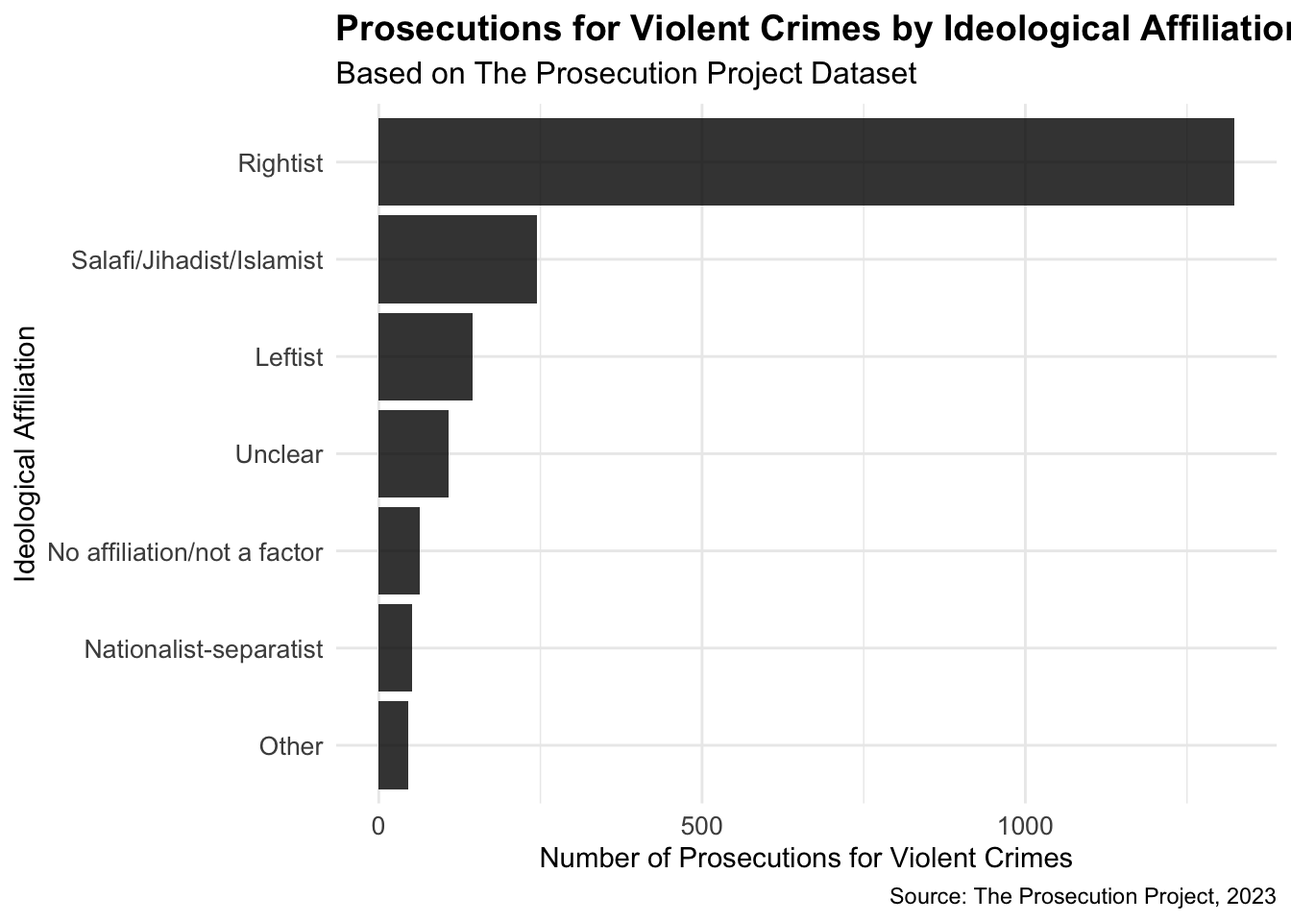
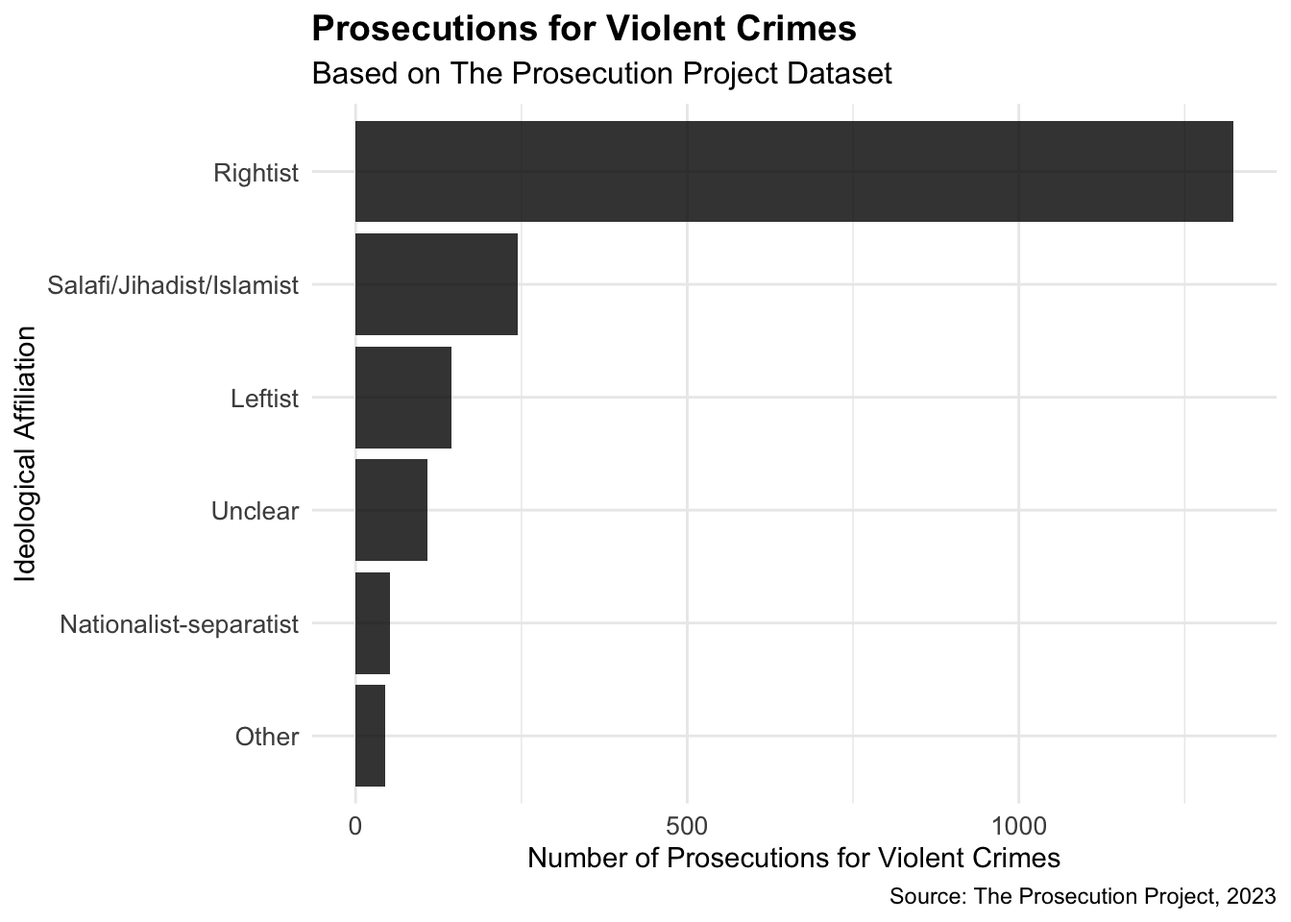
Properly parse dates, add death counts analysis and improve data filtering/visualization

diff --git a/violence.html b/violence.html
@@ -164,7 +164,14 @@ pre > code.sourceCode > span > a:first-child::before { text-decoration: underlin
 <span id="cb5-20"><a href="#cb5-20" aria-hidden="true" tabindex="-1"></a>        criminal_method <span class="sc">%in%</span> violent,</span>
 <span id="cb5-21"><a href="#cb5-21" aria-hidden="true" tabindex="-1"></a>        <span class="st">"violent"</span>,</span>
 <span id="cb5-22"><a href="#cb5-22" aria-hidden="true" tabindex="-1"></a>        <span class="st">"non-violent"</span></span>
-<span id="cb5-23"><a href="#cb5-23" aria-hidden="true" tabindex="-1"></a>    ))</span></code><button title="Copy to Clipboard" class="code-copy-button"><i class="bi"></i></button></pre></div>
+<span id="cb5-23"><a href="#cb5-23" aria-hidden="true" tabindex="-1"></a>    ))</span>
+<span id="cb5-24"><a href="#cb5-24" aria-hidden="true" tabindex="-1"></a></span>
+<span id="cb5-25"><a href="#cb5-25" aria-hidden="true" tabindex="-1"></a><span class="co"># parse dates</span></span>
+<span id="cb5-26"><a href="#cb5-26" aria-hidden="true" tabindex="-1"></a>df <span class="ot">&lt;-</span> df <span class="sc">|&gt;</span> </span>
+<span id="cb5-27"><a href="#cb5-27" aria-hidden="true" tabindex="-1"></a>    <span class="fu">mutate</span>(</span>
+<span id="cb5-28"><a href="#cb5-28" aria-hidden="true" tabindex="-1"></a>        <span class="at">date =</span> <span class="fu">str_trim</span>(date),</span>
+<span id="cb5-29"><a href="#cb5-29" aria-hidden="true" tabindex="-1"></a>        <span class="at">date =</span> lubridate<span class="sc">::</span><span class="fu">mdy</span>(date)</span>
+<span id="cb5-30"><a href="#cb5-30" aria-hidden="true" tabindex="-1"></a>    )</span></code><button title="Copy to Clipboard" class="code-copy-button"><i class="bi"></i></button></pre></div>
 </details>
 </div>
 </section>
@@ -209,24 +216,25 @@ pre > code.sourceCode > span > a:first-child::before { text-decoration: underlin
 <span id="cb8-7"><a href="#cb8-7" aria-hidden="true" tabindex="-1"></a>        )</span>
 <span id="cb8-8"><a href="#cb8-8" aria-hidden="true" tabindex="-1"></a>    )</span>
 <span id="cb8-9"><a href="#cb8-9" aria-hidden="true" tabindex="-1"></a></span>
-<span id="cb8-10"><a href="#cb8-10" aria-hidden="true" tabindex="-1"></a>df <span class="sc">|&gt;</span> <span class="fu">count</span>(ideology_simple)</span></code><button title="Copy to Clipboard" class="code-copy-button"><i class="bi"></i></button></pre></div>
+<span id="cb8-10"><a href="#cb8-10" aria-hidden="true" tabindex="-1"></a>df <span class="sc">|&gt;</span> <span class="fu">count</span>(ideology_simple, <span class="at">sort =</span> <span class="cn">TRUE</span>)</span></code><button title="Copy to Clipboard" class="code-copy-button"><i class="bi"></i></button></pre></div>
 </details>
 <div class="cell-output cell-output-stdout">
 <pre><code># A tibble: 7 × 2
   ideology_simple                 n
   &lt;chr&gt;                       &lt;int&gt;
-1 Leftist                       802
-2 Nationalist-separatist        114
-3 No affiliation/not a factor   163
-4 Other                          60
-5 Rightist                     2604
-6 Salafi/Jihadist/Islamist      956
-7 Unclear                       221</code></pre>
+1 Rightist                     2604
+2 Salafi/Jihadist/Islamist      956
+3 Leftist                       802
+4 Unclear                       221
+5 No affiliation/not a factor   163
+6 Nationalist-separatist        114
+7 Other                          60</code></pre>
 </div>
 </div>
 </section>
 <section id="how-many-prosecutions-were-for-violent-vs.-non-violent-methods-by-ideological-affiliation" class="level3">
 <h3 class="anchored" data-anchor-id="how-many-prosecutions-were-for-violent-vs.-non-violent-methods-by-ideological-affiliation">How many prosecutions were for violent vs.&nbsp;non-violent methods, by ideological affiliation?</h3>
+<p>Then let’s filter for only those to make our visualizations</p>
 <div class="cell">
 <details class="code-fold">
 <summary>Code</summary>
@@ -258,29 +266,34 @@ pre > code.sourceCode > span > a:first-child::before { text-decoration: underlin
 <div class="cell">
 <details class="code-fold">
 <summary>Code</summary>
-<div class="sourceCode cell-code" id="cb12"><pre class="sourceCode r code-with-copy"><code class="sourceCode r"><span id="cb12-1"><a href="#cb12-1" aria-hidden="true" tabindex="-1"></a>violent_crimes_by_ideology <span class="ot">&lt;-</span> df <span class="sc">|&gt;</span> </span>
-<span id="cb12-2"><a href="#cb12-2" aria-hidden="true" tabindex="-1"></a>    <span class="fu">filter</span>(method_type <span class="sc">==</span> <span class="st">"violent"</span>) <span class="sc">|&gt;</span> </span>
-<span id="cb12-3"><a href="#cb12-3" aria-hidden="true" tabindex="-1"></a>    <span class="fu">count</span>(ideology_simple, <span class="at">name =</span> <span class="st">"violent_prosecutions"</span>) <span class="sc">|&gt;</span> </span>
-<span id="cb12-4"><a href="#cb12-4" aria-hidden="true" tabindex="-1"></a>    <span class="fu">arrange</span>(<span class="fu">desc</span>(violent_prosecutions))</span>
-<span id="cb12-5"><a href="#cb12-5" aria-hidden="true" tabindex="-1"></a></span>
-<span id="cb12-6"><a href="#cb12-6" aria-hidden="true" tabindex="-1"></a><span class="fu">ggplot</span>(violent_crimes_by_ideology, <span class="fu">aes</span>(<span class="at">x =</span> <span class="fu">reorder</span>(ideology_simple, violent_prosecutions), </span>
-<span id="cb12-7"><a href="#cb12-7" aria-hidden="true" tabindex="-1"></a>                                       <span class="at">y =</span> violent_prosecutions)) <span class="sc">+</span></span>
-<span id="cb12-8"><a href="#cb12-8" aria-hidden="true" tabindex="-1"></a>    <span class="fu">geom_col</span>(<span class="at">fill =</span> <span class="st">"black"</span>, <span class="at">alpha =</span> <span class="fl">0.8</span>) <span class="sc">+</span></span>
-<span id="cb12-9"><a href="#cb12-9" aria-hidden="true" tabindex="-1"></a>    <span class="fu">coord_flip</span>() <span class="sc">+</span></span>
-<span id="cb12-10"><a href="#cb12-10" aria-hidden="true" tabindex="-1"></a>    <span class="fu">labs</span>(</span>
-<span id="cb12-11"><a href="#cb12-11" aria-hidden="true" tabindex="-1"></a>        <span class="at">title =</span> <span class="st">"Prosecutions for Violent Crimes by Ideological Affiliation"</span>,</span>
-<span id="cb12-12"><a href="#cb12-12" aria-hidden="true" tabindex="-1"></a>        <span class="at">subtitle =</span> <span class="st">"Based on The Prosecution Project Dataset"</span>,</span>
-<span id="cb12-13"><a href="#cb12-13" aria-hidden="true" tabindex="-1"></a>        <span class="at">x =</span> <span class="st">"Ideological Affiliation"</span>,</span>
-<span id="cb12-14"><a href="#cb12-14" aria-hidden="true" tabindex="-1"></a>        <span class="at">y =</span> <span class="st">"Number of Prosecutions for Violent Crimes"</span>,</span>
-<span id="cb12-15"><a href="#cb12-15" aria-hidden="true" tabindex="-1"></a>        <span class="at">caption =</span> <span class="st">"Source: The Prosecution Project, 2023"</span></span>
-<span id="cb12-16"><a href="#cb12-16" aria-hidden="true" tabindex="-1"></a>    ) <span class="sc">+</span></span>
-<span id="cb12-17"><a href="#cb12-17" aria-hidden="true" tabindex="-1"></a>    <span class="fu">theme_minimal</span>() <span class="sc">+</span></span>
-<span id="cb12-18"><a href="#cb12-18" aria-hidden="true" tabindex="-1"></a>    <span class="fu">theme</span>(</span>
-<span id="cb12-19"><a href="#cb12-19" aria-hidden="true" tabindex="-1"></a>        <span class="at">plot.title =</span> <span class="fu">element_text</span>(<span class="at">size =</span> <span class="dv">14</span>, <span class="at">face =</span> <span class="st">"bold"</span>),</span>
-<span id="cb12-20"><a href="#cb12-20" aria-hidden="true" tabindex="-1"></a>        <span class="at">plot.subtitle =</span> <span class="fu">element_text</span>(<span class="at">size =</span> <span class="dv">12</span>),</span>
-<span id="cb12-21"><a href="#cb12-21" aria-hidden="true" tabindex="-1"></a>        <span class="at">axis.text =</span> <span class="fu">element_text</span>(<span class="at">size =</span> <span class="dv">10</span>),</span>
-<span id="cb12-22"><a href="#cb12-22" aria-hidden="true" tabindex="-1"></a>        <span class="at">axis.title =</span> <span class="fu">element_text</span>(<span class="at">size =</span> <span class="dv">11</span>)</span>
-<span id="cb12-23"><a href="#cb12-23" aria-hidden="true" tabindex="-1"></a>    )</span></code><button title="Copy to Clipboard" class="code-copy-button"><i class="bi"></i></button></pre></div>
+<div class="sourceCode cell-code" id="cb12"><pre class="sourceCode r code-with-copy"><code class="sourceCode r"><span id="cb12-1"><a href="#cb12-1" aria-hidden="true" tabindex="-1"></a>violent_crimes <span class="ot">&lt;-</span> df <span class="sc">|&gt;</span> </span>
+<span id="cb12-2"><a href="#cb12-2" aria-hidden="true" tabindex="-1"></a>    <span class="fu">filter</span>(</span>
+<span id="cb12-3"><a href="#cb12-3" aria-hidden="true" tabindex="-1"></a>        method_type <span class="sc">==</span> <span class="st">"violent"</span>,</span>
+<span id="cb12-4"><a href="#cb12-4" aria-hidden="true" tabindex="-1"></a>        ideology_simple <span class="sc">!=</span> <span class="st">"No affiliation/not a factor"</span></span>
+<span id="cb12-5"><a href="#cb12-5" aria-hidden="true" tabindex="-1"></a>        )</span>
+<span id="cb12-6"><a href="#cb12-6" aria-hidden="true" tabindex="-1"></a>    </span>
+<span id="cb12-7"><a href="#cb12-7" aria-hidden="true" tabindex="-1"></a>violent_crimes_by_ideology <span class="ot">&lt;-</span> violent_crimes <span class="sc">|&gt;</span> </span>
+<span id="cb12-8"><a href="#cb12-8" aria-hidden="true" tabindex="-1"></a>    <span class="fu">count</span>(ideology_simple, <span class="at">name =</span> <span class="st">"violent_prosecutions"</span>) <span class="sc">|&gt;</span> </span>
+<span id="cb12-9"><a href="#cb12-9" aria-hidden="true" tabindex="-1"></a>    <span class="fu">arrange</span>(<span class="fu">desc</span>(violent_prosecutions))</span>
+<span id="cb12-10"><a href="#cb12-10" aria-hidden="true" tabindex="-1"></a></span>
+<span id="cb12-11"><a href="#cb12-11" aria-hidden="true" tabindex="-1"></a><span class="fu">ggplot</span>(violent_crimes_by_ideology, <span class="fu">aes</span>(<span class="at">x =</span> <span class="fu">reorder</span>(ideology_simple, violent_prosecutions), </span>
+<span id="cb12-12"><a href="#cb12-12" aria-hidden="true" tabindex="-1"></a>                                       <span class="at">y =</span> violent_prosecutions)) <span class="sc">+</span></span>
+<span id="cb12-13"><a href="#cb12-13" aria-hidden="true" tabindex="-1"></a>    <span class="fu">geom_col</span>(<span class="at">fill =</span> <span class="st">"black"</span>, <span class="at">alpha =</span> <span class="fl">0.8</span>) <span class="sc">+</span></span>
+<span id="cb12-14"><a href="#cb12-14" aria-hidden="true" tabindex="-1"></a>    <span class="fu">coord_flip</span>() <span class="sc">+</span></span>
+<span id="cb12-15"><a href="#cb12-15" aria-hidden="true" tabindex="-1"></a>    <span class="fu">labs</span>(</span>
+<span id="cb12-16"><a href="#cb12-16" aria-hidden="true" tabindex="-1"></a>        <span class="at">title =</span> <span class="st">"Prosecutions for Violent Crimes"</span>,</span>
+<span id="cb12-17"><a href="#cb12-17" aria-hidden="true" tabindex="-1"></a>        <span class="at">subtitle =</span> <span class="st">"Based on The Prosecution Project Dataset"</span>,</span>
+<span id="cb12-18"><a href="#cb12-18" aria-hidden="true" tabindex="-1"></a>        <span class="at">x =</span> <span class="st">"Ideological Affiliation"</span>,</span>
+<span id="cb12-19"><a href="#cb12-19" aria-hidden="true" tabindex="-1"></a>        <span class="at">y =</span> <span class="st">"Number of Prosecutions for Violent Crimes"</span>,</span>
+<span id="cb12-20"><a href="#cb12-20" aria-hidden="true" tabindex="-1"></a>        <span class="at">caption =</span> <span class="st">"Source: The Prosecution Project, 2023"</span></span>
+<span id="cb12-21"><a href="#cb12-21" aria-hidden="true" tabindex="-1"></a>    ) <span class="sc">+</span></span>
+<span id="cb12-22"><a href="#cb12-22" aria-hidden="true" tabindex="-1"></a>    <span class="fu">theme_minimal</span>() <span class="sc">+</span></span>
+<span id="cb12-23"><a href="#cb12-23" aria-hidden="true" tabindex="-1"></a>    <span class="fu">theme</span>(</span>
+<span id="cb12-24"><a href="#cb12-24" aria-hidden="true" tabindex="-1"></a>        <span class="at">plot.title =</span> <span class="fu">element_text</span>(<span class="at">size =</span> <span class="dv">14</span>, <span class="at">face =</span> <span class="st">"bold"</span>),</span>
+<span id="cb12-25"><a href="#cb12-25" aria-hidden="true" tabindex="-1"></a>        <span class="at">plot.subtitle =</span> <span class="fu">element_text</span>(<span class="at">size =</span> <span class="dv">12</span>),</span>
+<span id="cb12-26"><a href="#cb12-26" aria-hidden="true" tabindex="-1"></a>        <span class="at">axis.text =</span> <span class="fu">element_text</span>(<span class="at">size =</span> <span class="dv">10</span>),</span>
+<span id="cb12-27"><a href="#cb12-27" aria-hidden="true" tabindex="-1"></a>        <span class="at">axis.title =</span> <span class="fu">element_text</span>(<span class="at">size =</span> <span class="dv">11</span>)</span>
+<span id="cb12-28"><a href="#cb12-28" aria-hidden="true" tabindex="-1"></a>    )</span></code><button title="Copy to Clipboard" class="code-copy-button"><i class="bi"></i></button></pre></div>
 </details>
 <div class="cell-output-display">
 <div>
@@ -296,57 +309,123 @@ pre > code.sourceCode > span > a:first-child::before { text-decoration: underlin
 <div class="cell page-columns page-full">
 <details class="code-fold">
 <summary>Code</summary>
-<div class="sourceCode cell-code" id="cb13"><pre class="sourceCode r code-with-copy"><code class="sourceCode r"><span id="cb13-1"><a href="#cb13-1" aria-hidden="true" tabindex="-1"></a><span class="co"># Extract year from the date column and create the data for the stacked bar chart</span></span>
-<span id="cb13-2"><a href="#cb13-2" aria-hidden="true" tabindex="-1"></a>df_yearly <span class="ot">&lt;-</span> df <span class="sc">|&gt;</span></span>
-<span id="cb13-3"><a href="#cb13-3" aria-hidden="true" tabindex="-1"></a>    <span class="co"># Extract year from date (handling different date formats)</span></span>
-<span id="cb13-4"><a href="#cb13-4" aria-hidden="true" tabindex="-1"></a>    <span class="fu">mutate</span>(<span class="at">year =</span> <span class="fu">case_when</span>(</span>
-<span id="cb13-5"><a href="#cb13-5" aria-hidden="true" tabindex="-1"></a>        <span class="fu">str_detect</span>(date, <span class="st">"/"</span>) <span class="sc">~</span> <span class="fu">as.numeric</span>(<span class="fu">str_extract</span>(date, <span class="st">"</span><span class="sc">\\</span><span class="st">d{4}$"</span>)),</span>
-<span id="cb13-6"><a href="#cb13-6" aria-hidden="true" tabindex="-1"></a>        <span class="fu">str_detect</span>(date, <span class="st">"-"</span>) <span class="sc">~</span> <span class="fu">as.numeric</span>(<span class="fu">str_extract</span>(date, <span class="st">"^</span><span class="sc">\\</span><span class="st">d{4}"</span>))</span>
-<span id="cb13-7"><a href="#cb13-7" aria-hidden="true" tabindex="-1"></a>    )) <span class="sc">|&gt;</span></span>
-<span id="cb13-8"><a href="#cb13-8" aria-hidden="true" tabindex="-1"></a>    <span class="co"># Filter out any rows where year extraction failed</span></span>
-<span id="cb13-9"><a href="#cb13-9" aria-hidden="true" tabindex="-1"></a>    <span class="fu">filter</span>(<span class="sc">!</span><span class="fu">is.na</span>(year)) <span class="sc">|&gt;</span></span>
-<span id="cb13-10"><a href="#cb13-10" aria-hidden="true" tabindex="-1"></a>    <span class="co"># Count prosecutions by year and ideology</span></span>
-<span id="cb13-11"><a href="#cb13-11" aria-hidden="true" tabindex="-1"></a>    <span class="fu">count</span>(year, ideology_simple, <span class="at">name =</span> <span class="st">"prosecutions"</span>)</span>
-<span id="cb13-12"><a href="#cb13-12" aria-hidden="true" tabindex="-1"></a></span>
-<span id="cb13-13"><a href="#cb13-13" aria-hidden="true" tabindex="-1"></a><span class="co"># Create a custom color palette that clearly distinguishes ideologies</span></span>
-<span id="cb13-14"><a href="#cb13-14" aria-hidden="true" tabindex="-1"></a><span class="co"># Use a manual color scale with intuitive colors</span></span>
-<span id="cb13-15"><a href="#cb13-15" aria-hidden="true" tabindex="-1"></a><span class="fu">ggplot</span>(df_yearly, <span class="fu">aes</span>(<span class="at">x =</span> year, <span class="at">y =</span> prosecutions, <span class="at">fill =</span> ideology_simple)) <span class="sc">+</span></span>
-<span id="cb13-16"><a href="#cb13-16" aria-hidden="true" tabindex="-1"></a>    <span class="fu">geom_col</span>() <span class="sc">+</span></span>
-<span id="cb13-17"><a href="#cb13-17" aria-hidden="true" tabindex="-1"></a>    <span class="fu">scale_fill_manual</span>(<span class="at">values =</span> <span class="fu">c</span>(</span>
-<span id="cb13-18"><a href="#cb13-18" aria-hidden="true" tabindex="-1"></a>        <span class="st">"Rightist"</span> <span class="ot">=</span> <span class="st">"#c14a58ff"</span>,                    <span class="co"># Red for Rightist</span></span>
-<span id="cb13-19"><a href="#cb13-19" aria-hidden="true" tabindex="-1"></a>        <span class="st">"Leftist"</span> <span class="ot">=</span> <span class="st">"#337fb5ff"</span>,                     <span class="co"># Blue for Leftist  </span></span>
-<span id="cb13-20"><a href="#cb13-20" aria-hidden="true" tabindex="-1"></a>        <span class="st">"Salafi/Jihadist/Islamist"</span> <span class="ot">=</span> <span class="st">"#e08738ff"</span>,    <span class="co"># Orange</span></span>
-<span id="cb13-21"><a href="#cb13-21" aria-hidden="true" tabindex="-1"></a>        <span class="st">"Unclear"</span> <span class="ot">=</span> <span class="st">"#71a771ff"</span>,                     <span class="co"># Green</span></span>
-<span id="cb13-22"><a href="#cb13-22" aria-hidden="true" tabindex="-1"></a>        <span class="st">"No affiliation/not a factor"</span> <span class="ot">=</span> <span class="st">"#999999ff"</span>, <span class="co"># Purple</span></span>
-<span id="cb13-23"><a href="#cb13-23" aria-hidden="true" tabindex="-1"></a>        <span class="st">"Nationalist-separatist"</span> <span class="ot">=</span> <span class="st">"#8c564b"</span>,      <span class="co"># Brown</span></span>
-<span id="cb13-24"><a href="#cb13-24" aria-hidden="true" tabindex="-1"></a>        <span class="st">"Other"</span> <span class="ot">=</span> <span class="st">"#e377c2"</span>                        <span class="co"># Pink</span></span>
-<span id="cb13-25"><a href="#cb13-25" aria-hidden="true" tabindex="-1"></a>    )) <span class="sc">+</span></span>
-<span id="cb13-26"><a href="#cb13-26" aria-hidden="true" tabindex="-1"></a>    <span class="fu">labs</span>(</span>
-<span id="cb13-27"><a href="#cb13-27" aria-hidden="true" tabindex="-1"></a>        <span class="at">title =</span> <span class="st">"Total Prosecutions by Year, Colored by Ideological Affiliation"</span>,</span>
-<span id="cb13-28"><a href="#cb13-28" aria-hidden="true" tabindex="-1"></a>        <span class="at">subtitle =</span> <span class="st">"Based on The Prosecution Project Dataset"</span>,</span>
-<span id="cb13-29"><a href="#cb13-29" aria-hidden="true" tabindex="-1"></a>        <span class="at">x =</span> <span class="st">"Year"</span>,</span>
-<span id="cb13-30"><a href="#cb13-30" aria-hidden="true" tabindex="-1"></a>        <span class="at">y =</span> <span class="st">"Number of Prosecutions"</span>,</span>
-<span id="cb13-31"><a href="#cb13-31" aria-hidden="true" tabindex="-1"></a>        <span class="at">fill =</span> <span class="st">"Ideological Affiliation"</span>,</span>
-<span id="cb13-32"><a href="#cb13-32" aria-hidden="true" tabindex="-1"></a>        <span class="at">caption =</span> <span class="st">"Source: The Prosecution Project, 2023"</span></span>
-<span id="cb13-33"><a href="#cb13-33" aria-hidden="true" tabindex="-1"></a>    ) <span class="sc">+</span></span>
-<span id="cb13-34"><a href="#cb13-34" aria-hidden="true" tabindex="-1"></a>    <span class="fu">theme_minimal</span>() <span class="sc">+</span></span>
-<span id="cb13-35"><a href="#cb13-35" aria-hidden="true" tabindex="-1"></a>    <span class="fu">theme</span>(</span>
-<span id="cb13-36"><a href="#cb13-36" aria-hidden="true" tabindex="-1"></a>        <span class="at">plot.title =</span> <span class="fu">element_text</span>(<span class="at">size =</span> <span class="dv">14</span>, <span class="at">face =</span> <span class="st">"bold"</span>),</span>
-<span id="cb13-37"><a href="#cb13-37" aria-hidden="true" tabindex="-1"></a>        <span class="at">plot.subtitle =</span> <span class="fu">element_text</span>(<span class="at">size =</span> <span class="dv">12</span>),</span>
-<span id="cb13-38"><a href="#cb13-38" aria-hidden="true" tabindex="-1"></a>        <span class="at">axis.text =</span> <span class="fu">element_text</span>(<span class="at">size =</span> <span class="dv">10</span>),</span>
-<span id="cb13-39"><a href="#cb13-39" aria-hidden="true" tabindex="-1"></a>        <span class="at">axis.title =</span> <span class="fu">element_text</span>(<span class="at">size =</span> <span class="dv">11</span>),</span>
-<span id="cb13-40"><a href="#cb13-40" aria-hidden="true" tabindex="-1"></a>        <span class="at">legend.position =</span> <span class="st">"bottom"</span>,</span>
-<span id="cb13-41"><a href="#cb13-41" aria-hidden="true" tabindex="-1"></a>        <span class="at">legend.title =</span> <span class="fu">element_text</span>(<span class="at">size =</span> <span class="dv">10</span>),</span>
-<span id="cb13-42"><a href="#cb13-42" aria-hidden="true" tabindex="-1"></a>        <span class="at">legend.text =</span> <span class="fu">element_text</span>(<span class="at">size =</span> <span class="dv">9</span>)</span>
-<span id="cb13-43"><a href="#cb13-43" aria-hidden="true" tabindex="-1"></a>    ) <span class="sc">+</span></span>
-<span id="cb13-44"><a href="#cb13-44" aria-hidden="true" tabindex="-1"></a>    <span class="fu">guides</span>(<span class="at">fill =</span> <span class="fu">guide_legend</span>(<span class="at">ncol =</span> <span class="dv">3</span>)) <span class="sc">+</span></span>
-<span id="cb13-45"><a href="#cb13-45" aria-hidden="true" tabindex="-1"></a>    <span class="fu">scale_x_continuous</span>(<span class="at">breaks =</span> scales<span class="sc">::</span><span class="fu">pretty_breaks</span>(<span class="at">n =</span> <span class="dv">8</span>))</span></code><button title="Copy to Clipboard" class="code-copy-button"><i class="bi"></i></button></pre></div>
+<div class="sourceCode cell-code" id="cb13"><pre class="sourceCode r code-with-copy"><code class="sourceCode r"><span id="cb13-1"><a href="#cb13-1" aria-hidden="true" tabindex="-1"></a>df_yearly <span class="ot">&lt;-</span> violent_crimes <span class="sc">|&gt;</span></span>
+<span id="cb13-2"><a href="#cb13-2" aria-hidden="true" tabindex="-1"></a>    <span class="fu">mutate</span>(</span>
+<span id="cb13-3"><a href="#cb13-3" aria-hidden="true" tabindex="-1"></a>        <span class="at">year =</span> lubridate<span class="sc">::</span><span class="fu">year</span>(date),</span>
+<span id="cb13-4"><a href="#cb13-4" aria-hidden="true" tabindex="-1"></a>        <span class="at">year =</span> <span class="fu">as.integer</span>(year)</span>
+<span id="cb13-5"><a href="#cb13-5" aria-hidden="true" tabindex="-1"></a>    ) <span class="sc">|&gt;</span></span>
+<span id="cb13-6"><a href="#cb13-6" aria-hidden="true" tabindex="-1"></a>    <span class="fu">filter</span>(<span class="sc">!</span><span class="fu">is.na</span>(year)) <span class="sc">|&gt;</span></span>
+<span id="cb13-7"><a href="#cb13-7" aria-hidden="true" tabindex="-1"></a>    <span class="fu">count</span>(year, ideology_simple, <span class="at">name =</span> <span class="st">"prosecutions"</span>)</span>
+<span id="cb13-8"><a href="#cb13-8" aria-hidden="true" tabindex="-1"></a></span>
+<span id="cb13-9"><a href="#cb13-9" aria-hidden="true" tabindex="-1"></a><span class="fu">ggplot</span>(df_yearly, <span class="fu">aes</span>(<span class="at">x =</span> year, <span class="at">y =</span> prosecutions, <span class="at">fill =</span> ideology_simple)) <span class="sc">+</span></span>
+<span id="cb13-10"><a href="#cb13-10" aria-hidden="true" tabindex="-1"></a>    <span class="fu">geom_col</span>() <span class="sc">+</span></span>
+<span id="cb13-11"><a href="#cb13-11" aria-hidden="true" tabindex="-1"></a>    <span class="fu">scale_fill_manual</span>(<span class="at">values =</span> <span class="fu">c</span>(</span>
+<span id="cb13-12"><a href="#cb13-12" aria-hidden="true" tabindex="-1"></a>        <span class="st">"Rightist"</span> <span class="ot">=</span> <span class="st">"#c14a58ff"</span>,                    <span class="co"># Red for Rightist</span></span>
+<span id="cb13-13"><a href="#cb13-13" aria-hidden="true" tabindex="-1"></a>        <span class="st">"Leftist"</span> <span class="ot">=</span> <span class="st">"#337fb5ff"</span>,                     <span class="co"># Blue for Leftist  </span></span>
+<span id="cb13-14"><a href="#cb13-14" aria-hidden="true" tabindex="-1"></a>        <span class="st">"Salafi/Jihadist/Islamist"</span> <span class="ot">=</span> <span class="st">"#e08738ff"</span>,    <span class="co"># Orange</span></span>
+<span id="cb13-15"><a href="#cb13-15" aria-hidden="true" tabindex="-1"></a>        <span class="st">"Unclear"</span> <span class="ot">=</span> <span class="st">"#71a771ff"</span>,                     <span class="co"># Green</span></span>
+<span id="cb13-16"><a href="#cb13-16" aria-hidden="true" tabindex="-1"></a>        <span class="st">"Nationalist-separatist"</span> <span class="ot">=</span> <span class="st">"#8c564b"</span>,      <span class="co"># Brown</span></span>
+<span id="cb13-17"><a href="#cb13-17" aria-hidden="true" tabindex="-1"></a>        <span class="st">"Other"</span> <span class="ot">=</span> <span class="st">"#e377c2"</span>                        <span class="co"># Pink</span></span>
+<span id="cb13-18"><a href="#cb13-18" aria-hidden="true" tabindex="-1"></a>    )) <span class="sc">+</span></span>
+<span id="cb13-19"><a href="#cb13-19" aria-hidden="true" tabindex="-1"></a>    <span class="fu">labs</span>(</span>
+<span id="cb13-20"><a href="#cb13-20" aria-hidden="true" tabindex="-1"></a>        <span class="at">title =</span> <span class="st">"Total Prosecutions of Violent Crimes by Year"</span>,</span>
+<span id="cb13-21"><a href="#cb13-21" aria-hidden="true" tabindex="-1"></a>        <span class="at">subtitle =</span> <span class="st">"By Ideological Affiliation - Based on The Prosecution Project Dataset"</span>,</span>
+<span id="cb13-22"><a href="#cb13-22" aria-hidden="true" tabindex="-1"></a>        <span class="at">x =</span> <span class="st">"Year"</span>,</span>
+<span id="cb13-23"><a href="#cb13-23" aria-hidden="true" tabindex="-1"></a>        <span class="at">y =</span> <span class="st">"Number of Prosecutions"</span>,</span>
+<span id="cb13-24"><a href="#cb13-24" aria-hidden="true" tabindex="-1"></a>        <span class="at">fill =</span> <span class="st">"Ideological Affiliation"</span>,</span>
+<span id="cb13-25"><a href="#cb13-25" aria-hidden="true" tabindex="-1"></a>        <span class="at">caption =</span> <span class="st">"Source: The Prosecution Project, 2023"</span></span>
+<span id="cb13-26"><a href="#cb13-26" aria-hidden="true" tabindex="-1"></a>    ) <span class="sc">+</span></span>
+<span id="cb13-27"><a href="#cb13-27" aria-hidden="true" tabindex="-1"></a>    <span class="fu">theme_minimal</span>() <span class="sc">+</span></span>
+<span id="cb13-28"><a href="#cb13-28" aria-hidden="true" tabindex="-1"></a>    <span class="fu">theme</span>(</span>
+<span id="cb13-29"><a href="#cb13-29" aria-hidden="true" tabindex="-1"></a>        <span class="at">plot.title =</span> <span class="fu">element_text</span>(<span class="at">size =</span> <span class="dv">14</span>, <span class="at">face =</span> <span class="st">"bold"</span>),</span>
+<span id="cb13-30"><a href="#cb13-30" aria-hidden="true" tabindex="-1"></a>        <span class="at">plot.subtitle =</span> <span class="fu">element_text</span>(<span class="at">size =</span> <span class="dv">12</span>),</span>
+<span id="cb13-31"><a href="#cb13-31" aria-hidden="true" tabindex="-1"></a>        <span class="at">axis.text =</span> <span class="fu">element_text</span>(<span class="at">size =</span> <span class="dv">10</span>),</span>
+<span id="cb13-32"><a href="#cb13-32" aria-hidden="true" tabindex="-1"></a>        <span class="at">axis.title =</span> <span class="fu">element_text</span>(<span class="at">size =</span> <span class="dv">11</span>),</span>
+<span id="cb13-33"><a href="#cb13-33" aria-hidden="true" tabindex="-1"></a>        <span class="at">legend.position =</span> <span class="st">"bottom"</span>,</span>
+<span id="cb13-34"><a href="#cb13-34" aria-hidden="true" tabindex="-1"></a>        <span class="at">legend.title =</span> <span class="fu">element_text</span>(<span class="at">size =</span> <span class="dv">10</span>),</span>
+<span id="cb13-35"><a href="#cb13-35" aria-hidden="true" tabindex="-1"></a>        <span class="at">legend.text =</span> <span class="fu">element_text</span>(<span class="at">size =</span> <span class="dv">9</span>)</span>
+<span id="cb13-36"><a href="#cb13-36" aria-hidden="true" tabindex="-1"></a>    ) <span class="sc">+</span></span>
+<span id="cb13-37"><a href="#cb13-37" aria-hidden="true" tabindex="-1"></a>    <span class="fu">guides</span>(<span class="at">fill =</span> <span class="fu">guide_legend</span>(<span class="at">ncol =</span> <span class="dv">3</span>)) <span class="sc">+</span></span>
+<span id="cb13-38"><a href="#cb13-38" aria-hidden="true" tabindex="-1"></a>    <span class="fu">scale_x_continuous</span>(<span class="at">breaks =</span> scales<span class="sc">::</span><span class="fu">pretty_breaks</span>(<span class="at">n =</span> <span class="dv">8</span>))</span></code><button title="Copy to Clipboard" class="code-copy-button"><i class="bi"></i></button></pre></div>
 </details>
 <div class="cell-output-display page-columns page-full">
 <div class="page-columns page-full">
 <figure class="figure page-columns page-full">
 <p class="page-columns page-full"><img src="violence_files/figure-html/unnamed-chunk-9-1.png" class="img-fluid figure-img column-screen-inset" width="672"></p>
 </figure>
+</div>
+</div>
+</div>
+<details class="code-fold">
+<summary>Code</summary>
+<div class="sourceCode cell-code" id="cb14"><pre class="sourceCode r code-with-copy"><code class="sourceCode r"><span id="cb14-1"><a href="#cb14-1" aria-hidden="true" tabindex="-1"></a>df_deaths <span class="ot">&lt;-</span> violent_crimes <span class="sc">|&gt;</span></span>
+<span id="cb14-2"><a href="#cb14-2" aria-hidden="true" tabindex="-1"></a>   <span class="fu">group_by</span>(ideology_simple) <span class="sc">|&gt;</span> </span>
+<span id="cb14-3"><a href="#cb14-3" aria-hidden="true" tabindex="-1"></a>   <span class="fu">summarise</span>(<span class="at">total_deaths =</span> <span class="fu">sum</span>(number_killed, <span class="at">na.rm =</span> <span class="cn">TRUE</span>)) <span class="sc">|&gt;</span> </span>
+<span id="cb14-4"><a href="#cb14-4" aria-hidden="true" tabindex="-1"></a>   <span class="fu">arrange</span>(<span class="fu">desc</span>(total_deaths))</span>
+<span id="cb14-5"><a href="#cb14-5" aria-hidden="true" tabindex="-1"></a></span>
+<span id="cb14-6"><a href="#cb14-6" aria-hidden="true" tabindex="-1"></a>plot1 <span class="ot">&lt;-</span> <span class="fu">ggplot</span>(df_deaths, <span class="fu">aes</span>(<span class="at">x =</span> <span class="fu">reorder</span>(ideology_simple, total_deaths), </span>
+<span id="cb14-7"><a href="#cb14-7" aria-hidden="true" tabindex="-1"></a>                                       <span class="at">y =</span> total_deaths)) <span class="sc">+</span></span>
+<span id="cb14-8"><a href="#cb14-8" aria-hidden="true" tabindex="-1"></a>    <span class="fu">geom_col</span>(<span class="at">fill =</span> <span class="st">"black"</span>, <span class="at">alpha =</span> <span class="fl">0.8</span>) <span class="sc">+</span></span>
+<span id="cb14-9"><a href="#cb14-9" aria-hidden="true" tabindex="-1"></a>    <span class="fu">coord_flip</span>() <span class="sc">+</span></span>
+<span id="cb14-10"><a href="#cb14-10" aria-hidden="true" tabindex="-1"></a>    <span class="fu">labs</span>(</span>
+<span id="cb14-11"><a href="#cb14-11" aria-hidden="true" tabindex="-1"></a>        <span class="at">title =</span> <span class="st">"Total Deaths from Violent Crimes"</span>,</span>
+<span id="cb14-12"><a href="#cb14-12" aria-hidden="true" tabindex="-1"></a>        <span class="at">subtitle =</span> <span class="st">"Based on The Prosecution Project Dataset"</span>,</span>
+<span id="cb14-13"><a href="#cb14-13" aria-hidden="true" tabindex="-1"></a>        <span class="at">x =</span> <span class="st">"Ideological Affiliation"</span>,</span>
+<span id="cb14-14"><a href="#cb14-14" aria-hidden="true" tabindex="-1"></a>        <span class="at">y =</span> <span class="st">"Total Deaths from Violent Crimes"</span>,</span>
+<span id="cb14-15"><a href="#cb14-15" aria-hidden="true" tabindex="-1"></a>        <span class="at">caption =</span> <span class="st">"Source: The Prosecution Project, 2023"</span></span>
+<span id="cb14-16"><a href="#cb14-16" aria-hidden="true" tabindex="-1"></a>    ) <span class="sc">+</span></span>
+<span id="cb14-17"><a href="#cb14-17" aria-hidden="true" tabindex="-1"></a>    <span class="fu">theme_minimal</span>() <span class="sc">+</span></span>
+<span id="cb14-18"><a href="#cb14-18" aria-hidden="true" tabindex="-1"></a>    <span class="fu">theme</span>(</span>
+<span id="cb14-19"><a href="#cb14-19" aria-hidden="true" tabindex="-1"></a>        <span class="at">plot.title =</span> <span class="fu">element_text</span>(<span class="at">size =</span> <span class="dv">14</span>, <span class="at">face =</span> <span class="st">"bold"</span>),</span>
+<span id="cb14-20"><a href="#cb14-20" aria-hidden="true" tabindex="-1"></a>        <span class="at">plot.subtitle =</span> <span class="fu">element_text</span>(<span class="at">size =</span> <span class="dv">12</span>),</span>
+<span id="cb14-21"><a href="#cb14-21" aria-hidden="true" tabindex="-1"></a>        <span class="at">axis.text =</span> <span class="fu">element_text</span>(<span class="at">size =</span> <span class="dv">10</span>),</span>
+<span id="cb14-22"><a href="#cb14-22" aria-hidden="true" tabindex="-1"></a>        <span class="at">axis.title =</span> <span class="fu">element_text</span>(<span class="at">size =</span> <span class="dv">11</span>)</span>
+<span id="cb14-23"><a href="#cb14-23" aria-hidden="true" tabindex="-1"></a>    )</span>
+<span id="cb14-24"><a href="#cb14-24" aria-hidden="true" tabindex="-1"></a></span>
+<span id="cb14-25"><a href="#cb14-25" aria-hidden="true" tabindex="-1"></a><span class="co"># exclude salafi/jihadist/islamist</span></span>
+<span id="cb14-26"><a href="#cb14-26" aria-hidden="true" tabindex="-1"></a>plot2 <span class="ot">&lt;-</span> violent_crimes <span class="sc">|&gt;</span></span>
+<span id="cb14-27"><a href="#cb14-27" aria-hidden="true" tabindex="-1"></a>   <span class="fu">filter</span>(ideology_simple <span class="sc">!=</span> <span class="st">"Salafi/Jihadist/Islamist"</span>) <span class="sc">|&gt;</span></span>
+<span id="cb14-28"><a href="#cb14-28" aria-hidden="true" tabindex="-1"></a>   <span class="fu">group_by</span>(ideology_simple) <span class="sc">|&gt;</span> </span>
+<span id="cb14-29"><a href="#cb14-29" aria-hidden="true" tabindex="-1"></a>   <span class="fu">summarise</span>(<span class="at">total_deaths =</span> <span class="fu">sum</span>(number_killed, <span class="at">na.rm =</span> <span class="cn">TRUE</span>)) <span class="sc">|&gt;</span> </span>
+<span id="cb14-30"><a href="#cb14-30" aria-hidden="true" tabindex="-1"></a>   <span class="fu">arrange</span>(<span class="fu">desc</span>(total_deaths)) <span class="sc">|&gt;</span> </span>
+<span id="cb14-31"><a href="#cb14-31" aria-hidden="true" tabindex="-1"></a>   <span class="fu">ungroup</span>() <span class="sc">|&gt;</span> </span>
+<span id="cb14-32"><a href="#cb14-32" aria-hidden="true" tabindex="-1"></a>   <span class="fu">ggplot</span>(<span class="fu">aes</span>(<span class="at">x =</span> <span class="fu">reorder</span>(ideology_simple, total_deaths), <span class="at">y =</span> total_deaths)) <span class="sc">+</span></span>
+<span id="cb14-33"><a href="#cb14-33" aria-hidden="true" tabindex="-1"></a>       <span class="fu">geom_col</span>(<span class="at">fill =</span> <span class="st">"black"</span>, <span class="at">alpha =</span> <span class="fl">0.8</span>) <span class="sc">+</span></span>
+<span id="cb14-34"><a href="#cb14-34" aria-hidden="true" tabindex="-1"></a>       <span class="fu">coord_flip</span>() <span class="sc">+</span></span>
+<span id="cb14-35"><a href="#cb14-35" aria-hidden="true" tabindex="-1"></a>       <span class="fu">labs</span>(</span>
+<span id="cb14-36"><a href="#cb14-36" aria-hidden="true" tabindex="-1"></a>           <span class="at">title =</span> <span class="st">"Total Deaths from Violent Crimes"</span>,</span>
+<span id="cb14-37"><a href="#cb14-37" aria-hidden="true" tabindex="-1"></a>           <span class="at">subtitle =</span> <span class="st">"Excluding Salafi/Jihadist/Islamist"</span>,</span>
+<span id="cb14-38"><a href="#cb14-38" aria-hidden="true" tabindex="-1"></a>           <span class="at">x =</span> <span class="st">"Ideological Affiliation"</span>,</span>
+<span id="cb14-39"><a href="#cb14-39" aria-hidden="true" tabindex="-1"></a>           <span class="at">y =</span> <span class="st">"Total Deaths from Violent Crimes"</span>,</span>
+<span id="cb14-40"><a href="#cb14-40" aria-hidden="true" tabindex="-1"></a>           <span class="at">caption =</span> <span class="st">"Source: The Prosecution Project, 2023"</span></span>
+<span id="cb14-41"><a href="#cb14-41" aria-hidden="true" tabindex="-1"></a>       ) <span class="sc">+</span></span>
+<span id="cb14-42"><a href="#cb14-42" aria-hidden="true" tabindex="-1"></a>       <span class="fu">theme_minimal</span>() <span class="sc">+</span></span>
+<span id="cb14-43"><a href="#cb14-43" aria-hidden="true" tabindex="-1"></a>       <span class="fu">theme</span>(</span>
+<span id="cb14-44"><a href="#cb14-44" aria-hidden="true" tabindex="-1"></a>           <span class="at">plot.title =</span> <span class="fu">element_text</span>(<span class="at">size =</span> <span class="dv">14</span>, <span class="at">face =</span> <span class="st">"bold"</span>),</span>
+<span id="cb14-45"><a href="#cb14-45" aria-hidden="true" tabindex="-1"></a>           <span class="at">plot.subtitle =</span> <span class="fu">element_text</span>(<span class="at">size =</span> <span class="dv">12</span>),</span>
+<span id="cb14-46"><a href="#cb14-46" aria-hidden="true" tabindex="-1"></a>           <span class="at">axis.text =</span> <span class="fu">element_text</span>(<span class="at">size =</span> <span class="dv">10</span>),</span>
+<span id="cb14-47"><a href="#cb14-47" aria-hidden="true" tabindex="-1"></a>           <span class="at">axis.title =</span> <span class="fu">element_text</span>(<span class="at">size =</span> <span class="dv">11</span>)</span>
+<span id="cb14-48"><a href="#cb14-48" aria-hidden="true" tabindex="-1"></a>       )</span>
+<span id="cb14-49"><a href="#cb14-49" aria-hidden="true" tabindex="-1"></a>plot1</span>
+<span id="cb14-50"><a href="#cb14-50" aria-hidden="true" tabindex="-1"></a>plot2</span></code><button title="Copy to Clipboard" class="code-copy-button"><i class="bi"></i></button></pre></div>
+</details>
+<div class="cell column-screen-inset quarto-layout-panel" data-layout-ncol="2">
+<div class="quarto-layout-row">
+<div class="quarto-layout-cell" style="flex-basis: 50.0%;justify-content: flex-start;">
+<div class="quarto-figure quarto-figure-center">
+<figure class="figure">
+<p><img src="violence_files/figure-html/unnamed-chunk-10-1.png" class="img-fluid figure-img" width="672"></p>
+<figcaption>All ideologies.</figcaption>
+</figure>
+</div>
+</div>
+<div class="quarto-layout-cell" style="flex-basis: 50.0%;justify-content: flex-start;">
+<div class="quarto-figure quarto-figure-center">
+<figure class="figure">
+<p><img src="violence_files/figure-html/unnamed-chunk-10-2.png" class="img-fluid figure-img" width="672"></p>
+<figcaption>Excluding Salafi/Jihadist/Islamist.</figcaption>
+</figure>
+</div>
 </div>
 </div>
 </div>
